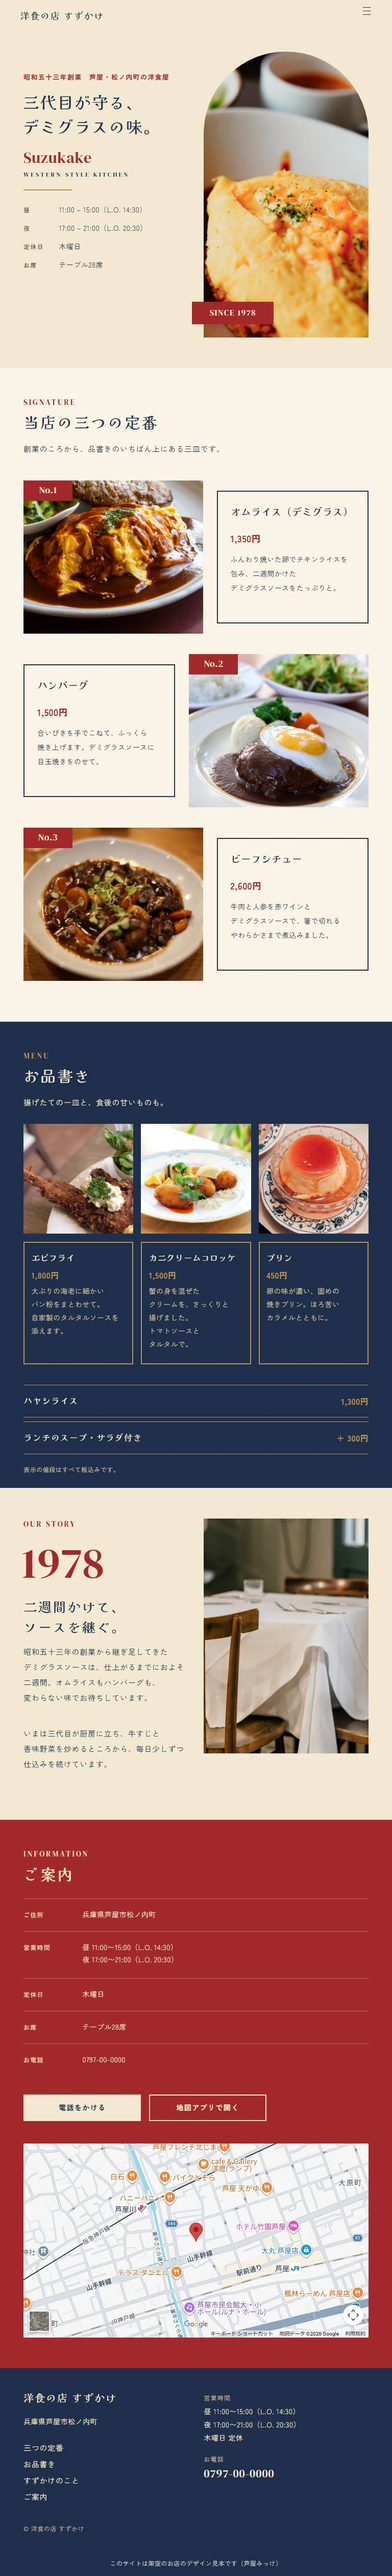
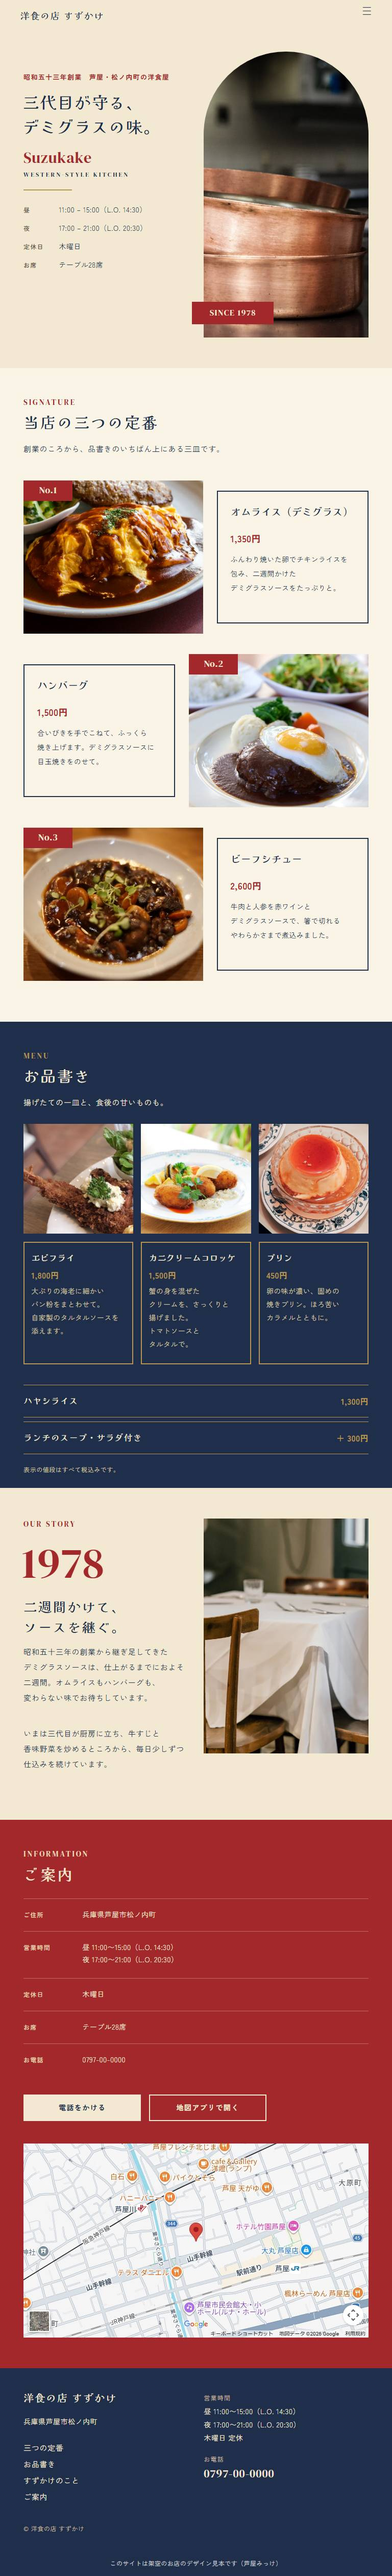
ギャラリー：洋食の店 すずかけ の最初の画面の写真を替える（G044・wa-20）
最初の画面（fv）と No.1 が両方オムライスだったため、fv を TdtoE7BE3z8 から
J5ybwA02dvI（厨房に重ねた銅の片手鍋）に替えた。デミグラスを煮込む・かける写真と
ハヤシライスは合う無料の写真が無く、③の洋食屋らしい厨房にした。
タブレットは object-position 80% で鍋の右の縁を残す。写真台帳に 1 件追記。

Claude-Session: https://claude.ai/code/session_016LALj5VuzPyysm2EBxPU54

Changed region(s): [[0.5, 0.0, 0.9688, 0.1556]]

diff --git a/templates/wa-20/SPEC.md b/templates/wa-20/SPEC.md
@@ -60,12 +60,12 @@ G036「洋食の店 すずかけ」（架空の昭和から続く街の洋食屋
 ## 7. 写真の枠
 | 枠 | 場所 | 中身 |
 |---|---|---|
-| fv | 最初の画面 | デミグラスソースを添えたふんわり卵のオムライス（奥にスープ） |
+| fv | 最初の画面 | 厨房のステンレスの台に重ねた、使い込んだ銅の片手鍋（G044 でオムライスから替えた。No.1 と同じ料理が続くため。デミグラスを煮込む・かける写真とハヤシライスは合う無料の写真が無く、洋食屋の厨房の写真にした） |
 | t1・t2・t3 | 三つの定番 | デミグラスのオムライス／目玉焼きをのせたデミグラスのハンバーグ／牛肉と人参のビーフシチュー |
 | m1・m2・m4 | お品書き | エビフライとタルタル／カニクリームコロッケ／固めのプリン |
 | ab | すずかけのこと | 白いテーブルクロスと木の椅子の客席 |
 
-切り抜き（`rect`）で外した物：t1 の右上のスマートフォンと左のサラダの大半、fv の右のグラス、m1 の右下の別の料理（ケチャップのオムライス）の大半、m4 の右端の房飾り。ハヤシライスは合う無料の写真が無く、写真の無い行で出す。
+切り抜き（`rect`）で外した物：t1 の右上のスマートフォンと左のサラダの大半、fv の左の柄の先（鍋の本体は PC・スマホでは切らない。タブレット 768〜1024 は枠が細いので `object-position:80% 50%` で右の縁を残し、左を切る。wa20-finish）、m1 の右下の別の料理（ケチャップのオムライス）の大半、m4 の右端の房飾り。ハヤシライスは合う無料の写真が無く、写真の無い行で出す。
 
 ## 8. 開いた切り抜きと理由
 参考の画像は開いていない（`report.md`・`menu.json` の数値だけ）。
